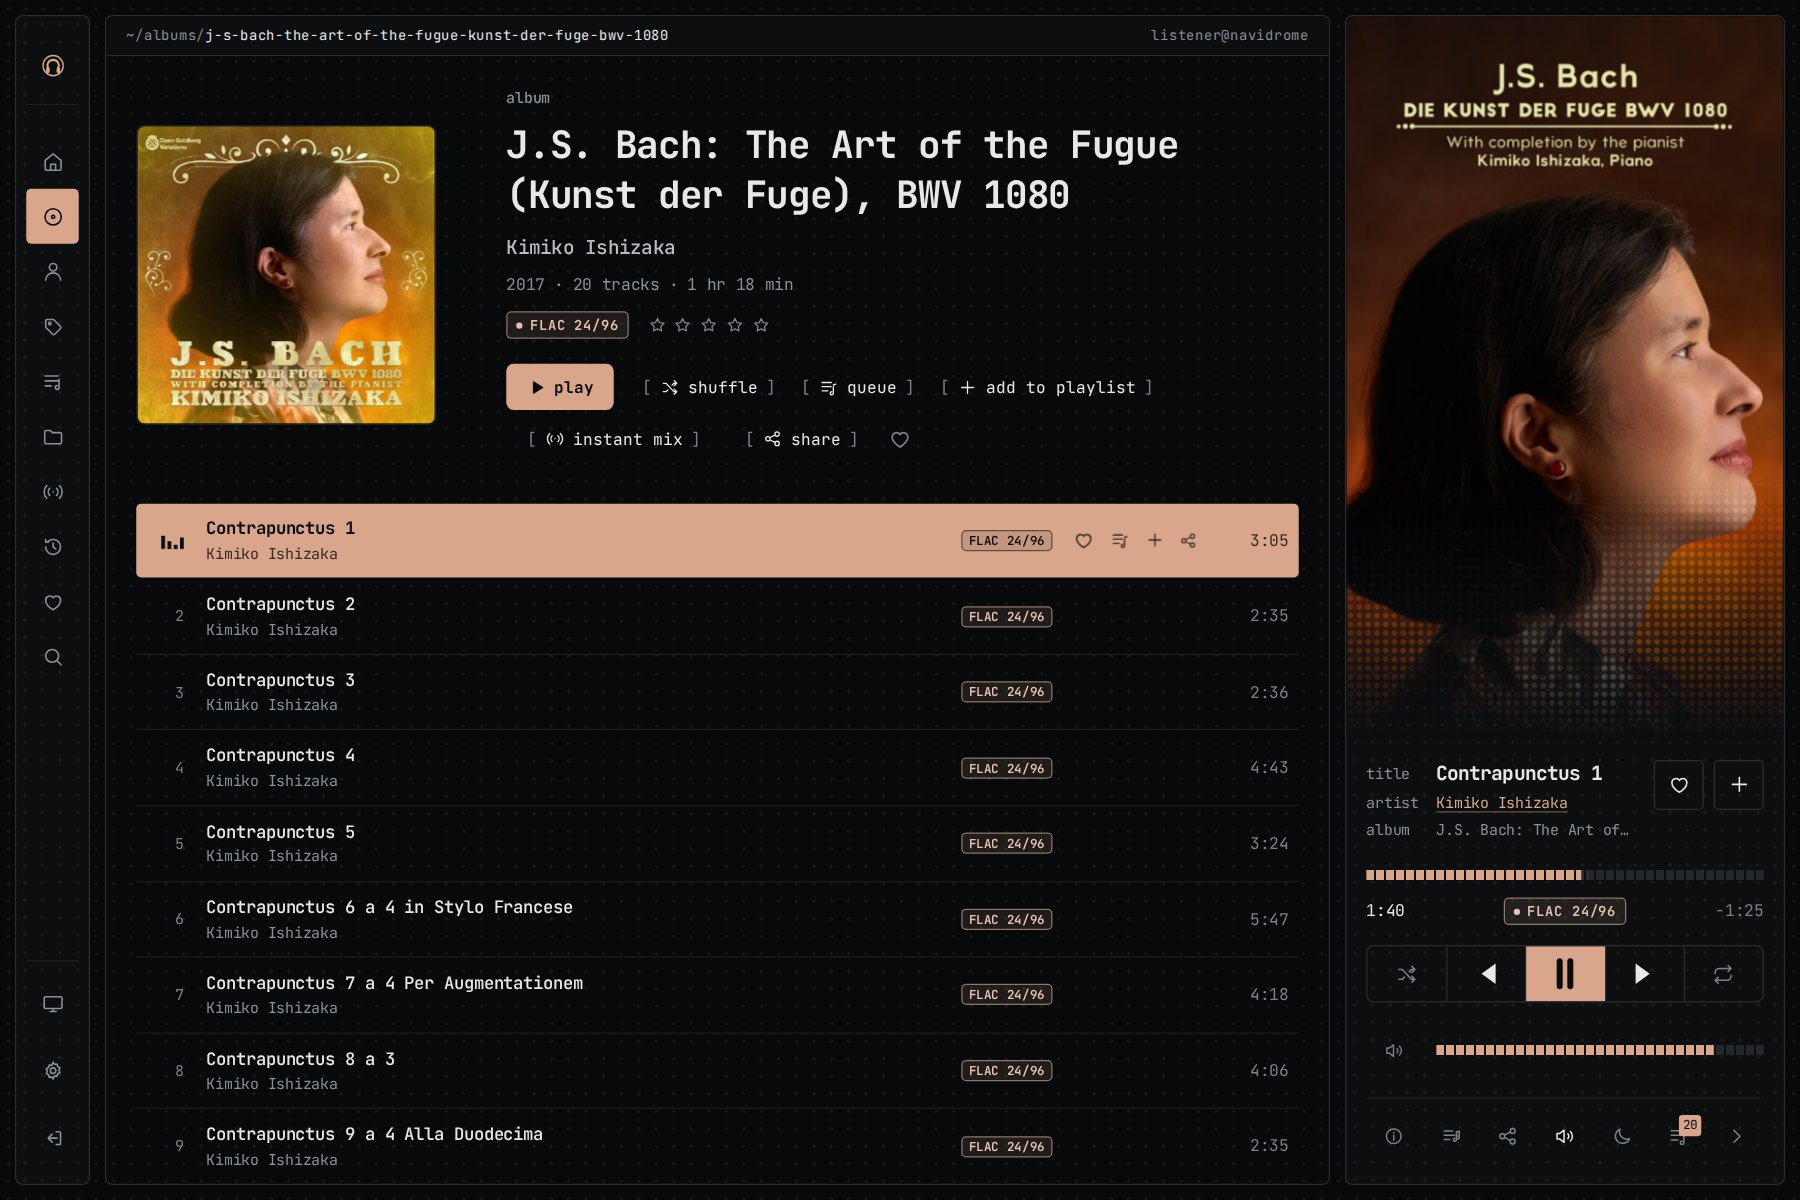
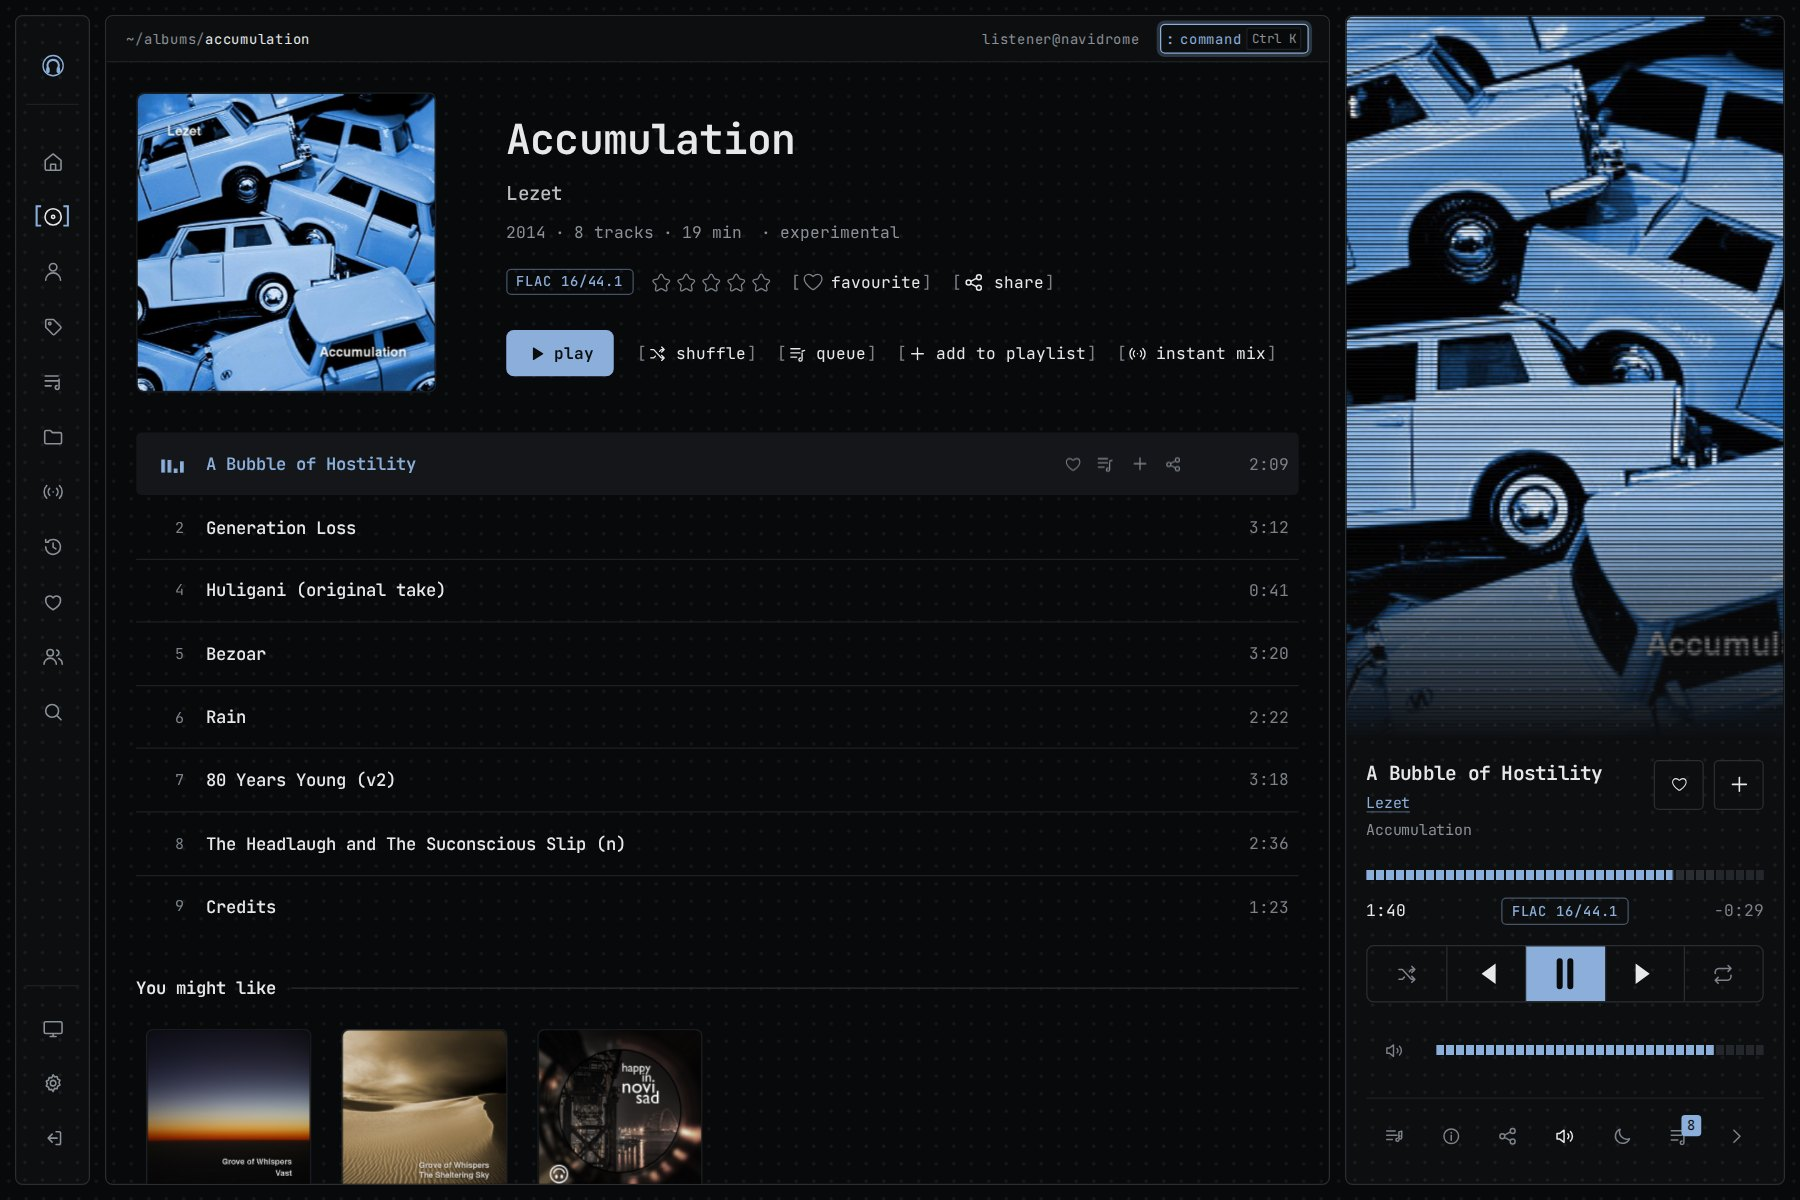
docs: the README's screenshots and header retaken from the dev image
- The seven screenshots in docs/assets are the site's, taken from the
  dev image in Terminal: the album page, lyrics, More from the artist,
  Your listening, a shared song, and the phone's album page and player.
- header.jpg and the social preview are rendered again from them: the
  phone player on Stellardrone's Light Years in front of the album page
  of Lezet's Accumulation.
- The README credits the albums the header shows, each with its CC BY
  licence.

diff --git a/README.md b/README.md
@@ -99,10 +99,12 @@ reviewed by me and by multiple AI-assisted audits, documented in [SECURITY.md](S
 
 ## License
 
-[MIT](LICENSE). Music in the header image: Josh Woodward
-([CC BY 4.0](https://creativecommons.org/licenses/by/4.0/)) and J.S. Bach's The
-Art of the Fugue played by Kimiko Ishizaka
-([CC0](https://creativecommons.org/publicdomain/zero/1.0/)).
+[MIT](LICENSE). Music and covers in the header image: Stellardrone, Light Years
+([CC BY 3.0](https://archive.org/details/Stellardrone-LightYears)); Lezet,
+Accumulation ([CC BY 3.0](https://archive.org/details/bof066)); Grove of
+Whispers, The Sheltering Sky and Vast ([CC BY 4.0](https://archive.org/details/bof060));
+and the unfound88 compilation happy in novi sad
+([CC BY 4.0](https://archive.org/details/unfound88)).
 
 The animated controls in `src/lib/components/bits/` are from
 [Svelte Bits](https://sveltebits.xyz) by David Haz, under the MIT licence with
